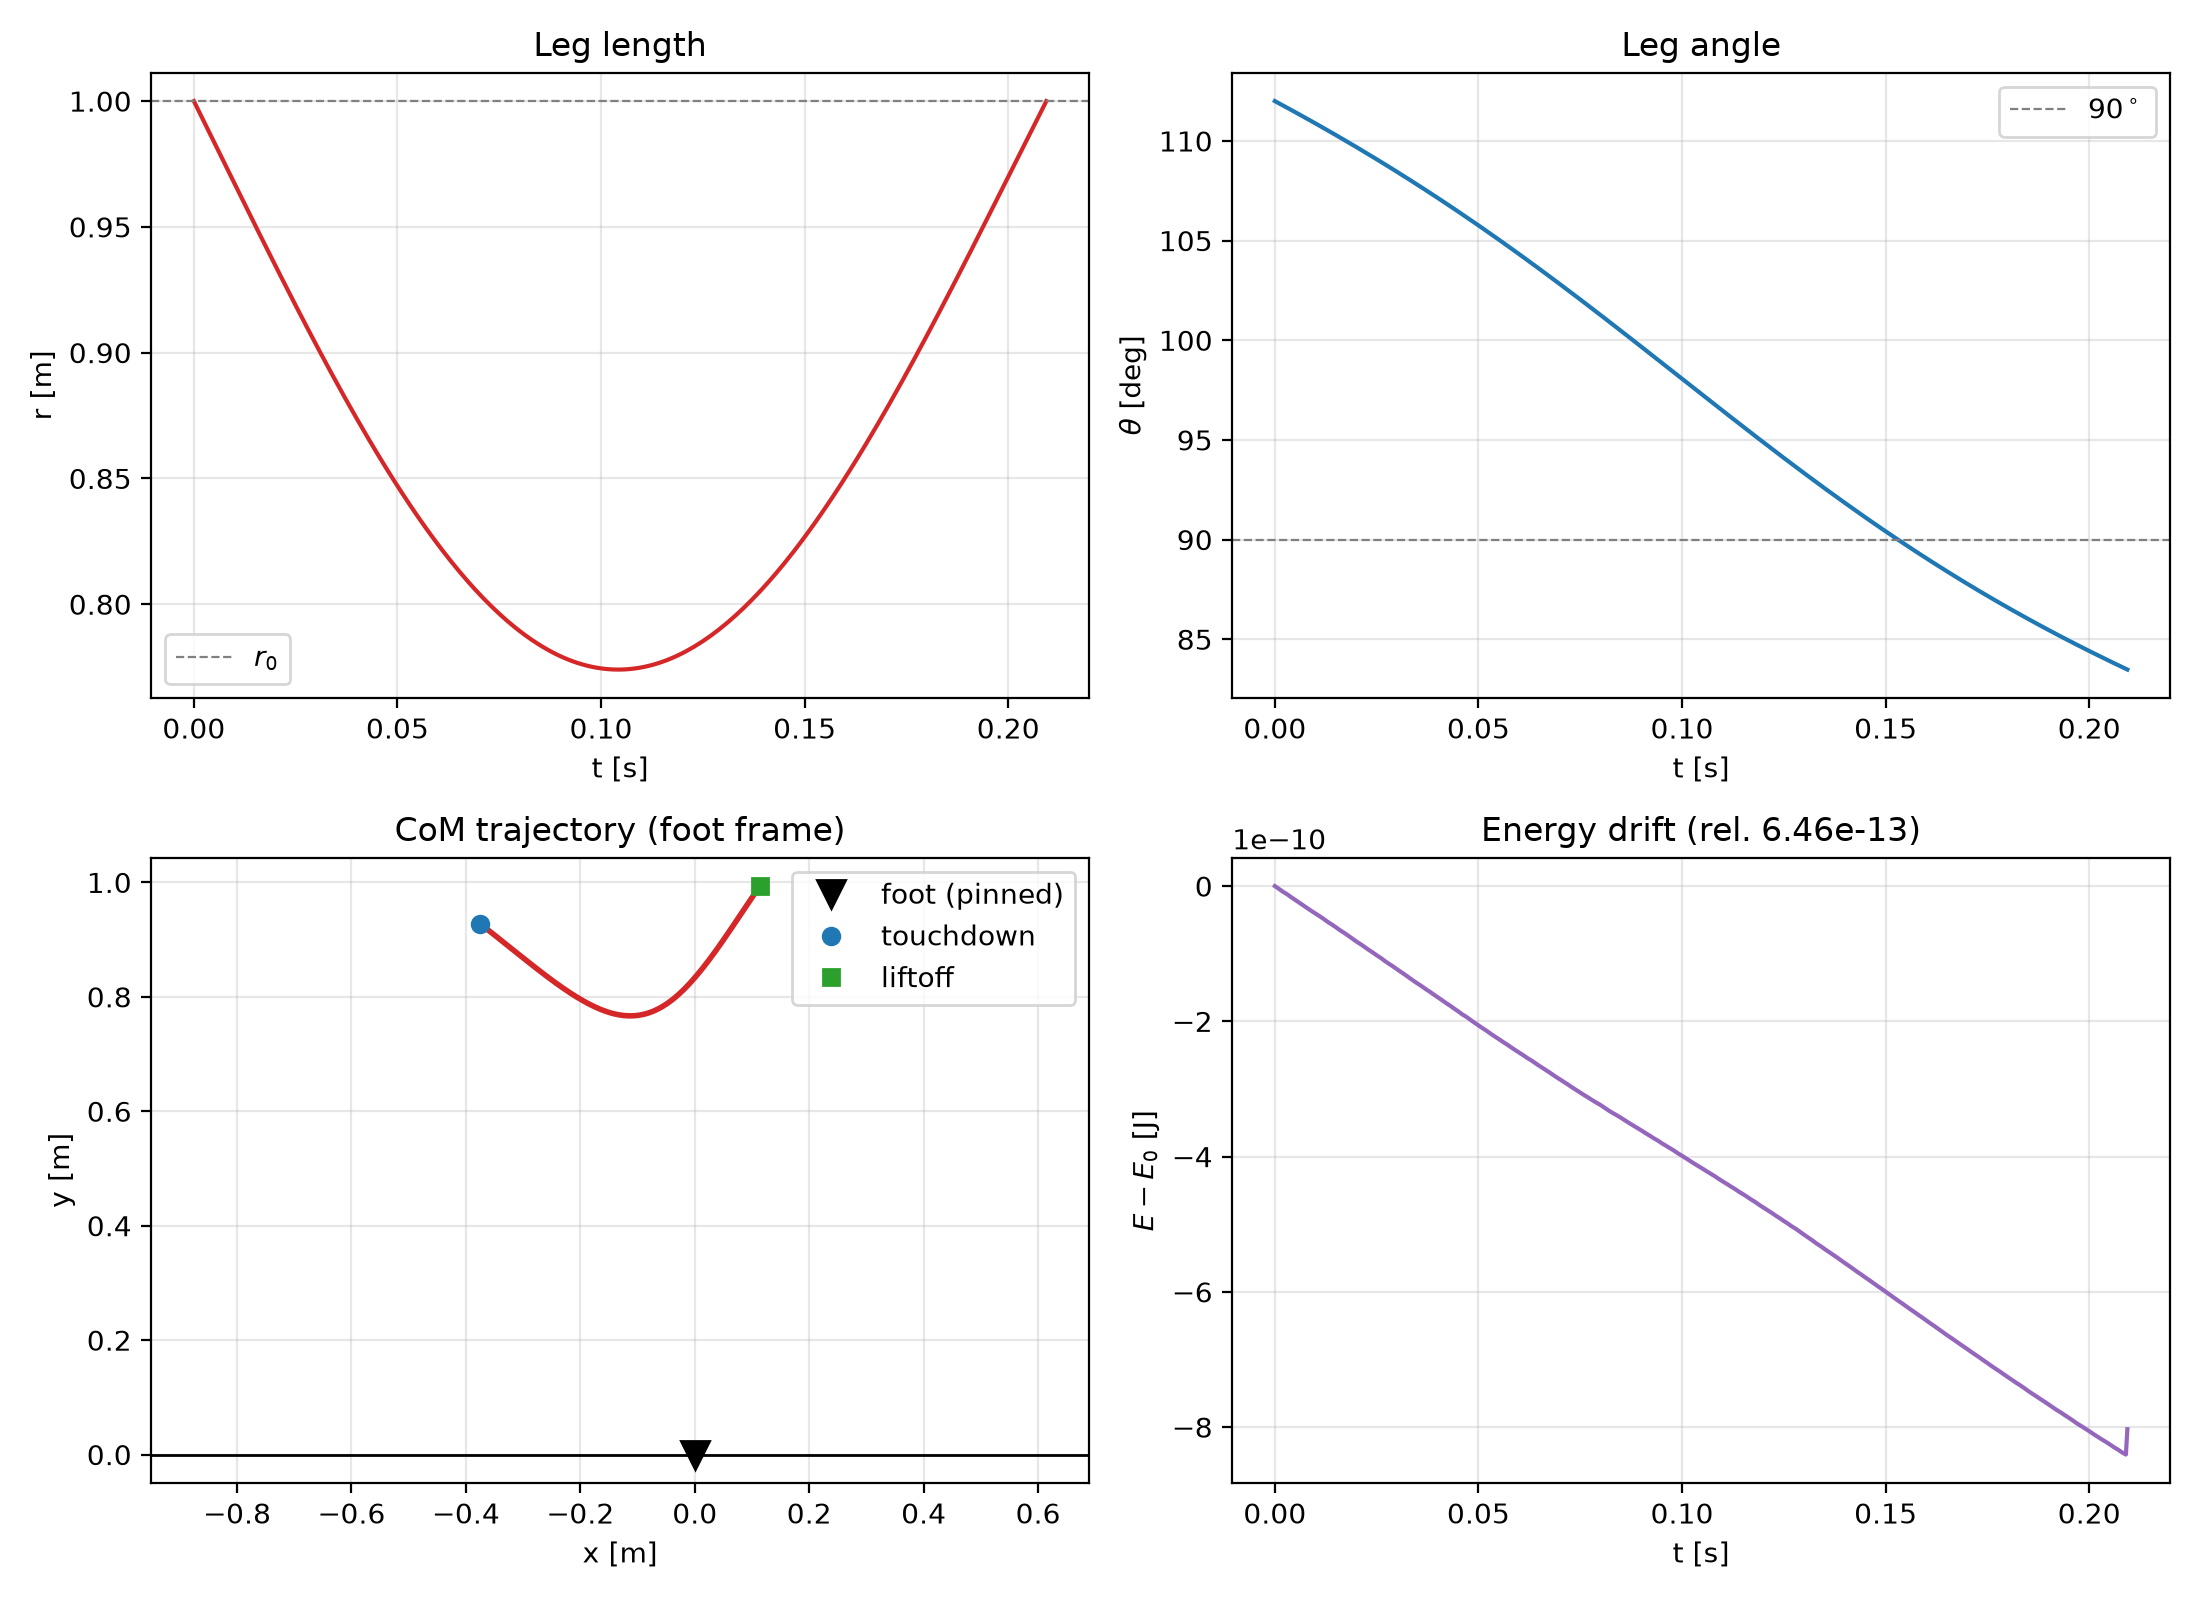
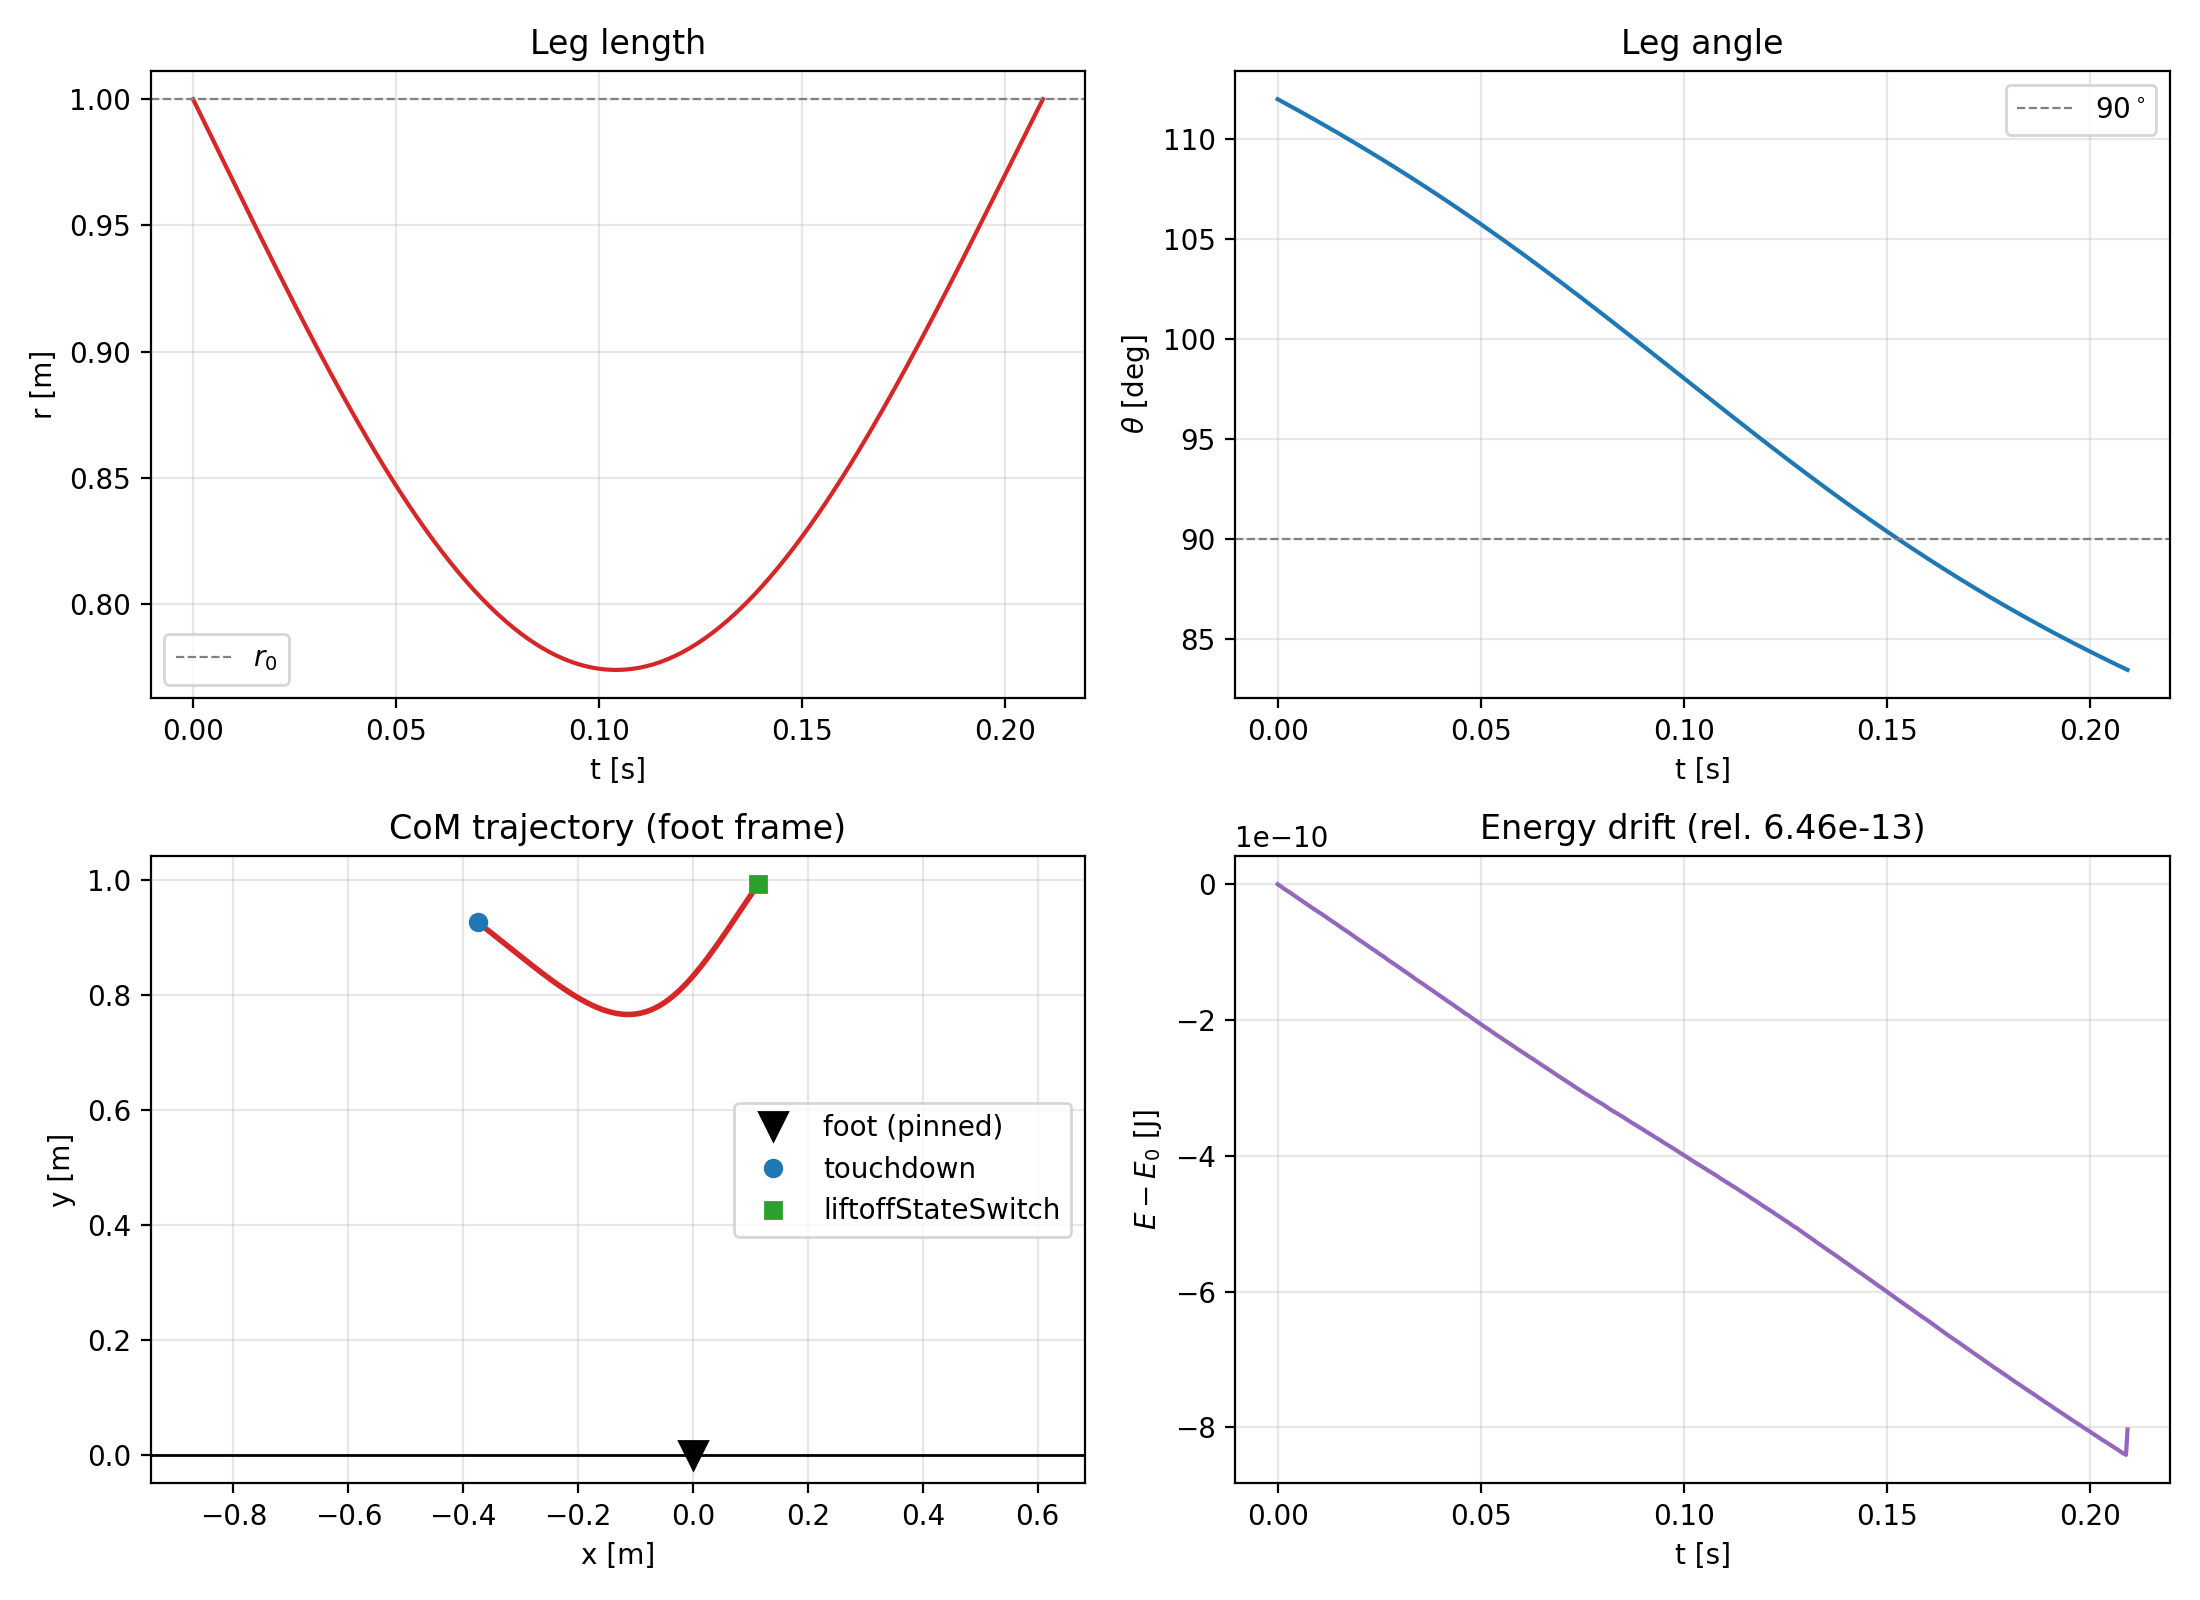
Added the apex mapping to the code, including the 1-d reduction showing x_dot is dependant on total E, and found y_start for the system. apexmap derivative aproximation shows system is unstable at y_star

diff --git a/Final Project/main.py b/Final Project/main.py
@@ -1,25 +1,33 @@
 import numpy as np
+import matplotlib.pyplot as plt
 from scipy.integrate import solve_ivp
+from scipy.optimize import least_squares
+from scipy.optimize import brentq
 
 # Paramerts
 m = 80
 r_o = 1
 k = 20000
 g = 9.81
-theta_TD = np.radians(68)
+thetaTD = np.radians(68)
 y_o = 1.2
 v_o = 3.0
 
-params = {'m' : m , 'k' : k , 'g' : g, 'r_o' : r_o}
+params = {'m' : m , 'k' : k , 'g' : g, 'r_o' : r_o , 'y_o' : y_o}
 
 
-def touchdownState(y_o , v_o, theta_TD, r_o, g):
+# ============================================================
+# Stage 1 - Stance phase: touchdown -> standing -> liftoff
+# First piece of the model: integrate a single stance phase and
+# check that total mechanical energy is conserved through it.
+# ============================================================
+
+def touchdownState(x_o_dot , y_o, theta_TD, r_o, g):
     r = r_o
     theta = np.arctan2(r_o * np.sin(theta_TD) , -r_o * np.cos(theta_TD))
 
-    x_TD_dot = v_o
+    x_TD_dot = x_o_dot
     y_TD_dot = - (2*g*(y_o - r_o * np.sin(theta_TD)))**.5
-
 
     r_dot = x_TD_dot * np.cos(theta) + y_TD_dot * np.sin(theta)
 
@@ -27,13 +35,7 @@ def touchdownState(y_o , v_o, theta_TD, r_o, g):
 
     return [r , theta, r_dot , theta_dot]
 
-def liftoff(t, s, params):
-    return params['k'] * (s[0] - params['r_o'])
-liftoff.terminal = True
-liftoff.direction = 1
-
-
-def stance_RHS(t , s, params):
+def standingState(t , s, params):
     r_dot = s[2]
     theta_dot = s[3]
 
@@ -42,94 +44,243 @@ def stance_RHS(t , s, params):
 
     return [r_dot , theta_dot, r_ddot, theta_ddot]
 
+def liftoffStateSwitch(t, s, params):
+    return params['k'] * (s[0] - params['r_o'])
+liftoffStateSwitch.terminal = True
+liftoffStateSwitch.direction = 1
+
 def energy(s, params):
     E = (1/2) * params['m'] * (s[2]**2 + s[0]**2 * s[3]**2) + params['m'] * params['g'] * s[0] * np.sin(s[1]) + (1/2) * params['k']* (s[0] - params['r_o'])**2
 
     return E
 
-s0 = touchdownState(y_o , v_o, theta_TD, r_o, g)
-t_span = (0.0,1.0)
+# ---------- run a single stance phase for diagnostics ----------
+# (mirrors the body of hop(), but keeps sol/s0 around for plotting)
 
-sol = solve_ivp(stance_RHS, t_span, s0, args=(params,),
-                events=liftoff, rtol=1e-10, atol=1e-12,
+def initialFunctionTest():
+    s0 = touchdownState(v_o, y_o, thetaTD, r_o, g)
+
+    t_span = (0.0, 1.0)
+    sol = solve_ivp(standingState, t_span, s0, args=(params,),
+                    events=liftoffStateSwitch, rtol=1e-10, atol=1e-12,
+                    dense_output=True, max_step=1e-3)
+
+    E = np.array([energy(sol.y[:, i], params) for i in range(sol.y.shape[1])])
+    drift = np.max(np.abs(E - E[0])) / np.abs(E[0])
+
+    # Plotting and data stuff, AI can fill in these gaps as simply learning to plot good is not hard and not my current goal
+
+    print("status:", sol.status)
+    print("liftoffStateSwitch time:", sol.t_events[0])
+    print("drift:", drift)
+
+    # ---------- diagnostics ----------
+    r_TD, th_TD, rdot_TD, thdot_TD = s0
+    s_LO = sol.y_events[0][0]
+    t_LO = sol.t_events[0][0]
+
+    print("--- touchdown state ---")
+    print(f"  r      = {r_TD:.6f} m")
+    print(f"  theta  = {np.degrees(th_TD):.4f} deg")
+    print(f"  r_dot  = {rdot_TD:.6f} m/s")
+    print(f"  th_dot = {thdot_TD:.6f} rad/s")
+
+    print("--- liftoffStateSwitch state ---")
+    print(f"  status         = {sol.status}")
+    print(f"  stance duration= {t_LO:.6f} s")
+    print(f"  r              = {s_LO[0]:.6f} m")
+    print(f"  theta          = {np.degrees(s_LO[1]):.4f} deg")
+    print(f"  r_dot          = {s_LO[2]:.6f} m/s")
+    print(f"  th_dot         = {s_LO[3]:.6f} rad/s")
+
+    print("--- validation ---")
+    print(f"  min leg length = {np.min(sol.y[0]):.6f} m")
+    print(f"  max compression= {params['r_o'] - np.min(sol.y[0]):.6f} m")
+    print(f"  E_0            = {E[0]:.6f} J")
+    print(f"  relative drift = {drift:.3e}")
+
+    # ---------- figures ----------
+    t = sol.t
+    r = sol.y[0]
+    th = sol.y[1]
+    x_com = r * np.cos(th)
+    y_com = r * np.sin(th)
+
+    fig, ax = plt.subplots(2, 2, figsize=(11, 8))
+
+    ax[0, 0].plot(t, r, color='C3')
+    ax[0, 0].axhline(params['r_o'], ls='--', lw=0.8, color='gray', label='$r_0$')
+    ax[0, 0].set_xlabel('t [s]')
+    ax[0, 0].set_ylabel('r [m]')
+    ax[0, 0].set_title('Leg length')
+    ax[0, 0].legend()
+
+    ax[0, 1].plot(t, np.degrees(th), color='C0')
+    ax[0, 1].axhline(90, ls='--', lw=0.8, color='gray', label='$90^\\circ$')
+    ax[0, 1].set_xlabel('t [s]')
+    ax[0, 1].set_ylabel(r'$\theta$ [deg]')
+    ax[0, 1].set_title('Leg angle')
+    ax[0, 1].legend()
+
+    ax[1, 0].plot(x_com, y_com, color='C3', lw=2)
+    ax[1, 0].plot(0, 0, 'kv', ms=10, label='foot (pinned)')
+    ax[1, 0].plot(x_com[0], y_com[0], 'o', color='C0', label='touchdown')
+    ax[1, 0].plot(x_com[-1], y_com[-1], 's', color='C2', label='liftoffStateSwitch')
+    ax[1, 0].axhline(0, color='k', lw=1)
+    ax[1, 0].set_xlabel('x [m]')
+    ax[1, 0].set_ylabel('y [m]')
+    ax[1, 0].set_title('CoM trajectory (foot frame)')
+    ax[1, 0].axis('equal')
+    ax[1, 0].legend()
+
+    ax[1, 1].plot(t, E - E[0], color='C4')
+    ax[1, 1].set_xlabel('t [s]')
+    ax[1, 1].set_ylabel('$E - E_0$ [J]')
+    ax[1, 1].set_title(f'Energy drift (rel. {drift:.2e})')
+    ax[1, 1].ticklabel_format(axis='y', style='sci', scilimits=(0, 0))
+
+    for a in ax.flat:
+        a.grid(alpha=0.3)
+    fig.tight_layout()
+    fig.savefig('stance_validation.png', dpi=200)
+    plt.show()
+
+
+# ============================================================
+# Stage 2 - Apex state: ballistic flight after liftoff
+# Convert the liftoff (r, theta) state back to Cartesian (x, y)
+# and propagate the free-flight trajectory forward to the apex
+# (the point where the vertical velocity goes to zero).
+# ============================================================
+
+def projectileApexState(s):
+    r_o = s[0]
+    theta_o = s[1]
+    r_o_dot = s[2]
+    theta_o_dot = s[3]
+
+    # convert state from liftoff back to cartesian
+    y_o = r_o * np.sin(theta_o)
+    x_o = r_o * np.cos(theta_o)
+
+    y_o_dot = r_o_dot * np.sin(theta_o) + theta_o_dot * r_o * np.cos(theta_o)
+    x_o_dot = r_o_dot * np.cos(theta_o) - theta_o_dot * r_o * np.sin(theta_o)
+
+    # Solve for when y velocity = 0, this is the highest point
+    t_apex = y_o_dot / g
+
+    # find corresponding x y x_dot y_dot values
+    y_dot = -g*t_apex + y_o_dot
+    x_dot = x_o_dot
+
+    y = y_o - ((g/2) * t_apex**2) + y_o_dot * t_apex
+    x = x_o + x_dot * t_apex
+
+    return [x , y, x_dot , y_dot]
+
+
+# ============================================================
+# Stage 3 - Hop: touchdown -> stance -> liftoff -> apex
+# Chains stages 1-2 together into a single map that takes an
+# apex state and returns the next apex state, one hop later.
+# ============================================================
+
+def hop(apexState ,thetaTD, params):
+    s0 = touchdownState(apexState[2],apexState[1], thetaTD, params['r_o'], params['g'])
+    t_span = (0.0,1.0)
+
+    sol = solve_ivp(standingState, t_span, s0, args=(params,),
+                events=liftoffStateSwitch, rtol=1e-10, atol=1e-12,
                 dense_output=True, max_step=1e-3)
 
-E = np.array([energy(sol.y[:, i], params) for i in range(sol.y.shape[1])])
-drift = np.max(np.abs(E - E[0])) / np.abs(E[0])
+    s1 = projectileApexState(sol.y_events[0][0])
 
-print("status:", sol.status)
-print("liftoff time:", sol.t_events[0])
-print("drift:", drift)
+    return s1
 
-import matplotlib.pyplot as plt
+def energyHop(apexState, params):
+    E = (1/2) * params['m'] * (apexState[2]**2 + apexState[3]**2) + params['m'] * params['g'] * apexState[1]
+    return E
 
-# ---------- diagnostics ----------
-r_TD, th_TD, rdot_TD, thdot_TD = s0
-s_LO = sol.y_events[0][0]
-t_LO = sol.t_events[0][0]
 
-print("--- touchdown state ---")
-print(f"  r      = {r_TD:.6f} m")
-print(f"  theta  = {np.degrees(th_TD):.4f} deg")
-print(f"  r_dot  = {rdot_TD:.6f} m/s")
-print(f"  th_dot = {thdot_TD:.6f} rad/s")
+# ============================================================
+# Stage 4 - x is redundant: the apex-to-apex map is fully
+# determined by total energy E and height y, not by x directly.
+# ============================================================
 
-print("--- liftoff state ---")
-print(f"  status         = {sol.status}")
-print(f"  stance duration= {t_LO:.6f} s")
-print(f"  r              = {s_LO[0]:.6f} m")
-print(f"  theta          = {np.degrees(s_LO[1]):.4f} deg")
-print(f"  r_dot          = {s_LO[2]:.6f} m/s")
-print(f"  th_dot         = {s_LO[3]:.6f} rad/s")
+def proveX_dotIsRedundant():
+    # E = (1/2)*m*(x_dot² + y_dot²) + m*g*y
+    # ((E - mgy) * 2/m - y_dot**2))**.5 = x_dot
+    # Y_dot = 0
+    # ((E-mgy)*2/m)**.5 = x_dot
+    # (2E/m - 2gy)**.5 = x_dot
 
-print("--- validation ---")
-print(f"  min leg length = {np.min(sol.y[0]):.6f} m")
-print(f"  max compression= {params['r_o'] - np.min(sol.y[0]):.6f} m")
-print(f"  E_0            = {E[0]:.6f} J")
-print(f"  relative drift = {drift:.3e}")
+    initialState = [0,y_o,v_o,0]
+    initialThetaTD = thetaTD
 
-# ---------- figures ----------
-t = sol.t
-r = sol.y[0]
-th = sol.y[1]
-x_com = r * np.cos(th)
-y_com = r * np.sin(th)
+    E1 = energyHop(initialState , params)
 
-fig, ax = plt.subplots(2, 2, figsize=(11, 8))
 
-ax[0, 0].plot(t, r, color='C3')
-ax[0, 0].axhline(params['r_o'], ls='--', lw=0.8, color='gray', label='$r_0$')
-ax[0, 0].set_xlabel('t [s]')
-ax[0, 0].set_ylabel('r [m]')
-ax[0, 0].set_title('Leg length')
-ax[0, 0].legend()
+    finalState = hop(initialState, initialThetaTD, params)
+    x_dot_pred = (2*E1/ params['m'] - 2*params['g']*finalState[1])**.5
+    E2 = energyHop(finalState, params)
 
-ax[0, 1].plot(t, np.degrees(th), color='C0')
-ax[0, 1].axhline(90, ls='--', lw=0.8, color='gray', label='$90^\\circ$')
-ax[0, 1].set_xlabel('t [s]')
-ax[0, 1].set_ylabel(r'$\theta$ [deg]')
-ax[0, 1].set_title('Leg angle')
-ax[0, 1].legend()
+    print(f"Energy Drift over 1 hop: {E2-E1}")
+    print(f"X_dot Drift over 1 hop: {finalState[2]-x_dot_pred}")
 
-ax[1, 0].plot(x_com, y_com, color='C3', lw=2)
-ax[1, 0].plot(0, 0, 'kv', ms=10, label='foot (pinned)')
-ax[1, 0].plot(x_com[0], y_com[0], 'o', color='C0', label='touchdown')
-ax[1, 0].plot(x_com[-1], y_com[-1], 's', color='C2', label='liftoff')
-ax[1, 0].axhline(0, color='k', lw=1)
-ax[1, 0].set_xlabel('x [m]')
-ax[1, 0].set_ylabel('y [m]')
-ax[1, 0].set_title('CoM trajectory (foot frame)')
-ax[1, 0].axis('equal')
-ax[1, 0].legend()
+# ============================================================
+# Stage 5 - Reduced 1-D apex map: fixed point and stability
+# Stage 4 showed the hop only depends on E and y, so collapse the
+# hop into a 1-D map y -> apexmap(y) and find the periodic apex
+# height (fixed point), then check its local stability from the
+# map's slope there.
+# ============================================================
 
-ax[1, 1].plot(t, E - E[0], color='C4')
-ax[1, 1].set_xlabel('t [s]')
-ax[1, 1].set_ylabel('$E - E_0$ [J]')
-ax[1, 1].set_title(f'Energy drift (rel. {drift:.2e})')
-ax[1, 1].ticklabel_format(axis='y', style='sci', scilimits=(0, 0))
+def apexmap(y , thetaTD, params, E):
+    y = np.asarray(y).item()
 
-for a in ax.flat:
-    a.grid(alpha=0.3)
-fig.tight_layout()
-fig.savefig('stance_validation.png', dpi=200)
-plt.show()
+    x_dot = (2*E/ params['m'] - 2*params['g']*y)**.5
+
+    inputApexState = [0, y , x_dot , 0]
+    outputApexState = hop(inputApexState, thetaTD, params)
+
+    return outputApexState[1]
+
+# ---------- find the fixed point of the apex map and its local stability ----------
+
+def findApexMapFixedPoint():
+    initialState = [0,y_o,v_o,0]
+    E = energyHop(initialState, params)
+    f = lambda y: apexmap(y, thetaTD, params , E) - y
+
+    y_min = params['r_o'] * np.sin(thetaTD)  # apex must be at/above touchdown height for this thetaTD
+    # 2E/m - 2*g*y ≥ 0
+    #  Y < 2E/ (2mg)
+    y_max = 2*E / (2* params['m'] * params['g'])
+
+    y_sample = np.linspace(y_min, y_max, 30)
+    f_sample = np.array([f(yi) for yi in y_sample])
+
+    sign_changes = np.where(np.diff(np.sign(f_sample)) != 0)[0]
+
+    # print(sign_changes)
+    y_min = y_sample[sign_changes]
+    y_max = y_sample[sign_changes+1]
+
+    y_star = brentq(f, y_min, y_max)
+    dy = .001
+
+    apexmapPrime = (apexmap(y_star + dy, thetaTD, params, E) - apexmap(y_star - dy, thetaTD, params, E)) / (2 * dy) # type: ignore
+
+    print(apexmapPrime)
+
+    
+# NEXT STAGE
+
+# ============================================================
+# Run
+# ============================================================
+
+if __name__ == "__main__":
+#     initialFunctionTest()
+#     proveX_dotIsRedundant()
+    findApexMapFixedPoint()
